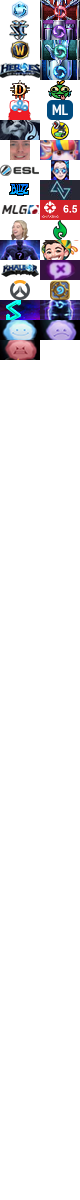
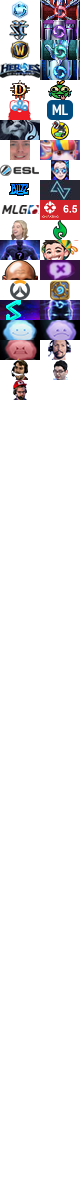
Update Blizzard, user, and link flair
Added:
* Twisted Vision
* Crimson Gaming
* JHow
* Tetch
* GClef
* Wolf

Changed:
* Lana Blizz flair

Removed:
* BlizzCon link flair (residual?)

Changed region(s): [[0.6, 0.2775, 0.9, 0.3392], [0.025, 0.2158, 0.475, 0.2467], [0.15, 0.2775, 0.35, 0.3392]]

diff --git a/user_flair/esports_flair.scss b/user_flair/esports_flair.scss
@@ -9,7 +9,7 @@
   background: url(%%flair-esports%%);
 }
 
-$column-zero: 'hgc', 'roll20', 'cloud9', 'mindfreak', 'aztech', 'mvp', 'heroes-hype';
+$column-zero: 'hgc', 'roll20', 'cloud9', 'mindfreak', 'aztech', 'mvp', 'heroes-hype', 'crimson-gaming', 'twisted-vision';
 
 $column-one: 'no-tomorrow', 'team-freedom', 'heroeshearth', 'tempo-storm', 'endemic', 'team-octalysis', 'simplicity', 'lfm-esports';
 

diff --git a/link_flair.scss b/link_flair.scss
@@ -1,4 +1,3 @@
-.linkflair-blizzcon .linkflairlabel,
 .linkflair-bug .linkflairlabel,
 .linkflair-creative .linkflairlabel,
 .linkflair-discussion .linkflairlabel,
@@ -79,7 +78,6 @@
 
 // Link Flair Icons
 
-.linkflair-blizzcon .thumbnail.self,
 .linkflair-bug .thumbnail.self,
 .linkflair-creative .thumbnail.self,
 .linkflair-discussion .thumbnail.self,

diff --git a/user_flair/general_flair.scss b/user_flair/general_flair.scss
@@ -137,3 +137,19 @@
 .flair-g-angry-cloud::before {
   background-position: 0 -340px;
 }
+
+.flair-g-jhow::before {
+  background-position: 40px -340px;
+}
+
+.flair-g-tetcher::before {
+  background-position: 0 -360px;
+}
+
+.flair-g-gclef::before {
+  background-position: 40px -360px;
+}
+
+.flair-g-wolf::before {
+  background-position: 0 -380px;
+}

diff --git a/blizzard_taglines.scss b/blizzard_taglines.scss
@@ -203,7 +203,7 @@
 }
 
 .thing .tagline .author[href$="/Blizz_LanaB"]::after {
-  content: "Animator";
+  content: "Senior Animator";
 }
 
 .thing .tagline .author[href$="/Blizz_TedP"]::after {
